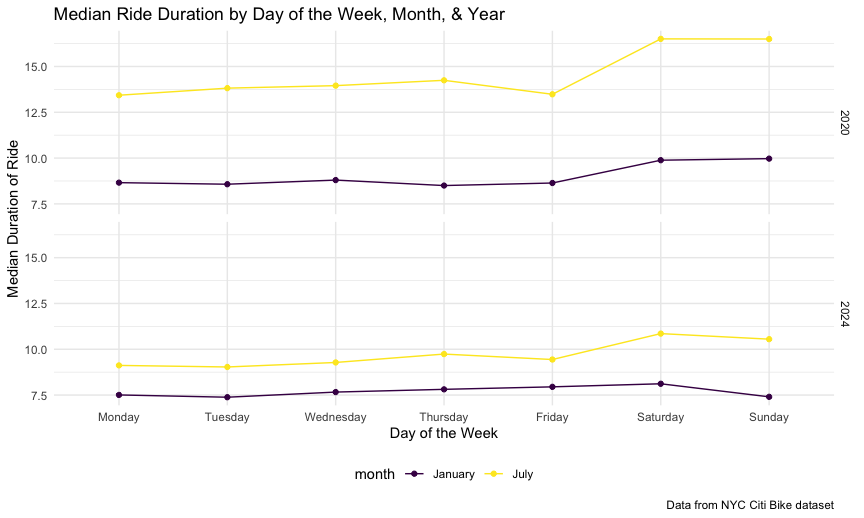
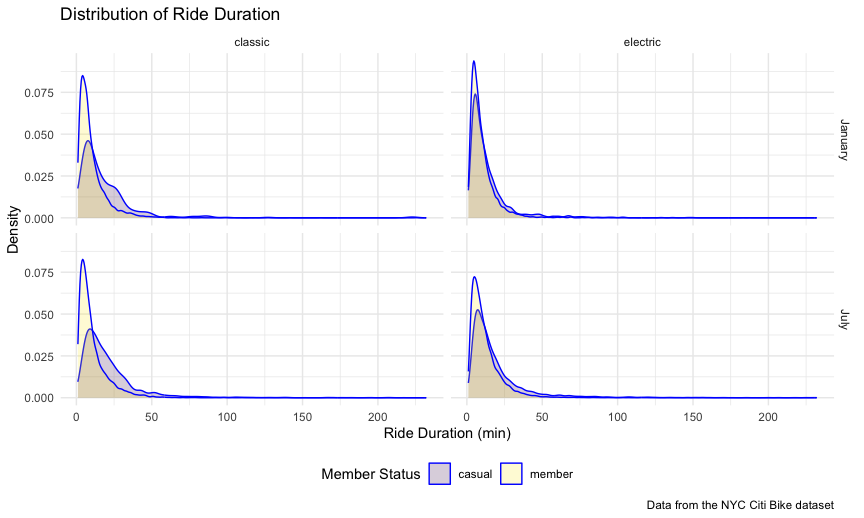
finishing up

diff --git a/p8105_hw3_stt2133.md b/p8105_hw3_stt2133.md
@@ -358,45 +358,42 @@ citi =
 
 ## 3.2. `citi` Data Description
 
-`citi` contains data on rides taken on the NYC Citi Bike system in
-January and July of 2020 and 2024. The dataset includes information on a
-total of 99485 rides. There are 9 variables in this dataset, including
-unique ride ID, duration of ride, names of the start and end station of
-the ride, type of bike used for the ride, membership status of the
-associated rider, and each ride’s year, month and day of week.
+The `citi` dataset contains a 1% sample of NYC Citi Bike rides lasting
+less than 4 hours in January and July of 2020 and 2024, for a total of
+99485 rides (one row per ride) and 9 variables. These include a unique
+ride ID (`ride_id`), the year, month, and day of the week (`weekday`) of
+the ride, ride duration in minutes (`duration`, ranging from 1 to 238.78
+minutes), whether the rider was a Citi Bike member or a casual rider
+(`member_status`), the type of bike (`bike_type`, classic or electric),
+and the names of the start and end stations. There is little missing
+data. Only 43 rides are missing a start station and 207 are missing an
+end station.
 
 ## 3.3. Frequency by `year`, `month`, & `member_status`
 
-### 3.3.1. Tables
-
 ``` r
 citi |>
-  group_by(year, month, member_status) |>
-  summarize(rides = n()) |>
+  count(year, month, member_status) |>
+  pivot_wider(
+    names_from = member_status,
+    values_from = n
+  ) |>
   knitr::kable()
 ```
 
-| year | month   | member_status | rides |
-|:-----|:--------|:--------------|------:|
-| 2020 | January | casual        |   984 |
-| 2020 | January | member        | 11436 |
-| 2020 | July    | casual        |  5637 |
-| 2020 | July    | member        | 15411 |
-| 2024 | January | casual        |  2108 |
-| 2024 | January | member        | 16753 |
-| 2024 | July    | casual        | 10894 |
-| 2024 | July    | member        | 36262 |
+| year | month   | casual | member |
+|:-----|:--------|-------:|-------:|
+| 2020 | January |    984 |  11436 |
+| 2020 | July    |   5637 |  15411 |
+| 2024 | January |   2108 |  16753 |
+| 2024 | July    |  10894 |  36262 |
 
-### 3.3.2. Comments
-
-Based on the frequency table, across the years and months observed, Citi
-Bike members took more rides than casual riders. The `member_status`
-category that had the combination of years and months recording the
-greatest frequency were also members and this occurred in `July` of
-`2024` with 36262 rides. Conversely, the `member_status` category that
-had the combination of years and months recording the lowest frequency
-were casual riders and this occurred in `January` of `2020` with 984
-rides.
+Members took far more rides than casual riders in every month and year.
+Ridership was much higher in July than in January in both years, and it
+grew substantially from 2020 to 2024, with July 2024 having the most
+rides overall. Casual riders made up a larger share of rides in July
+than in January, suggesting that casual riders, such as tourists and
+occasional users, are more likely to ride in warm weather.
 
 ## 3.4. Frequency among Popular Stations in July 2024
 
@@ -435,10 +432,11 @@ citi |>
     title = "Median Ride Duration by Day of the Week, Month, & Year",
     x = "Day of the Week",
     y = "Median Duration of Ride",
+    color = "Month",
     caption = "Data from NYC Citi Bike dataset")
 ```
 
-<img src="p8105_hw3_stt2133_files/figure-gfm/unnamed-chunk-1-1.png" alt="" width="90%" />
+<img src="p8105_hw3_stt2133_files/figure-gfm/median-duration-1.png" alt="" width="90%" />
 
 ### 3.5.2. Comments
 
@@ -479,7 +477,7 @@ citi |>
   )
 ```
 
-<img src="p8105_hw3_stt2133_files/figure-gfm/unnamed-chunk-2-1.png" alt="" width="90%" />
+<img src="p8105_hw3_stt2133_files/figure-gfm/unnamed-chunk-1-1.png" alt="" width="90%" />
 
 ### 3.6.2. Comments
 
